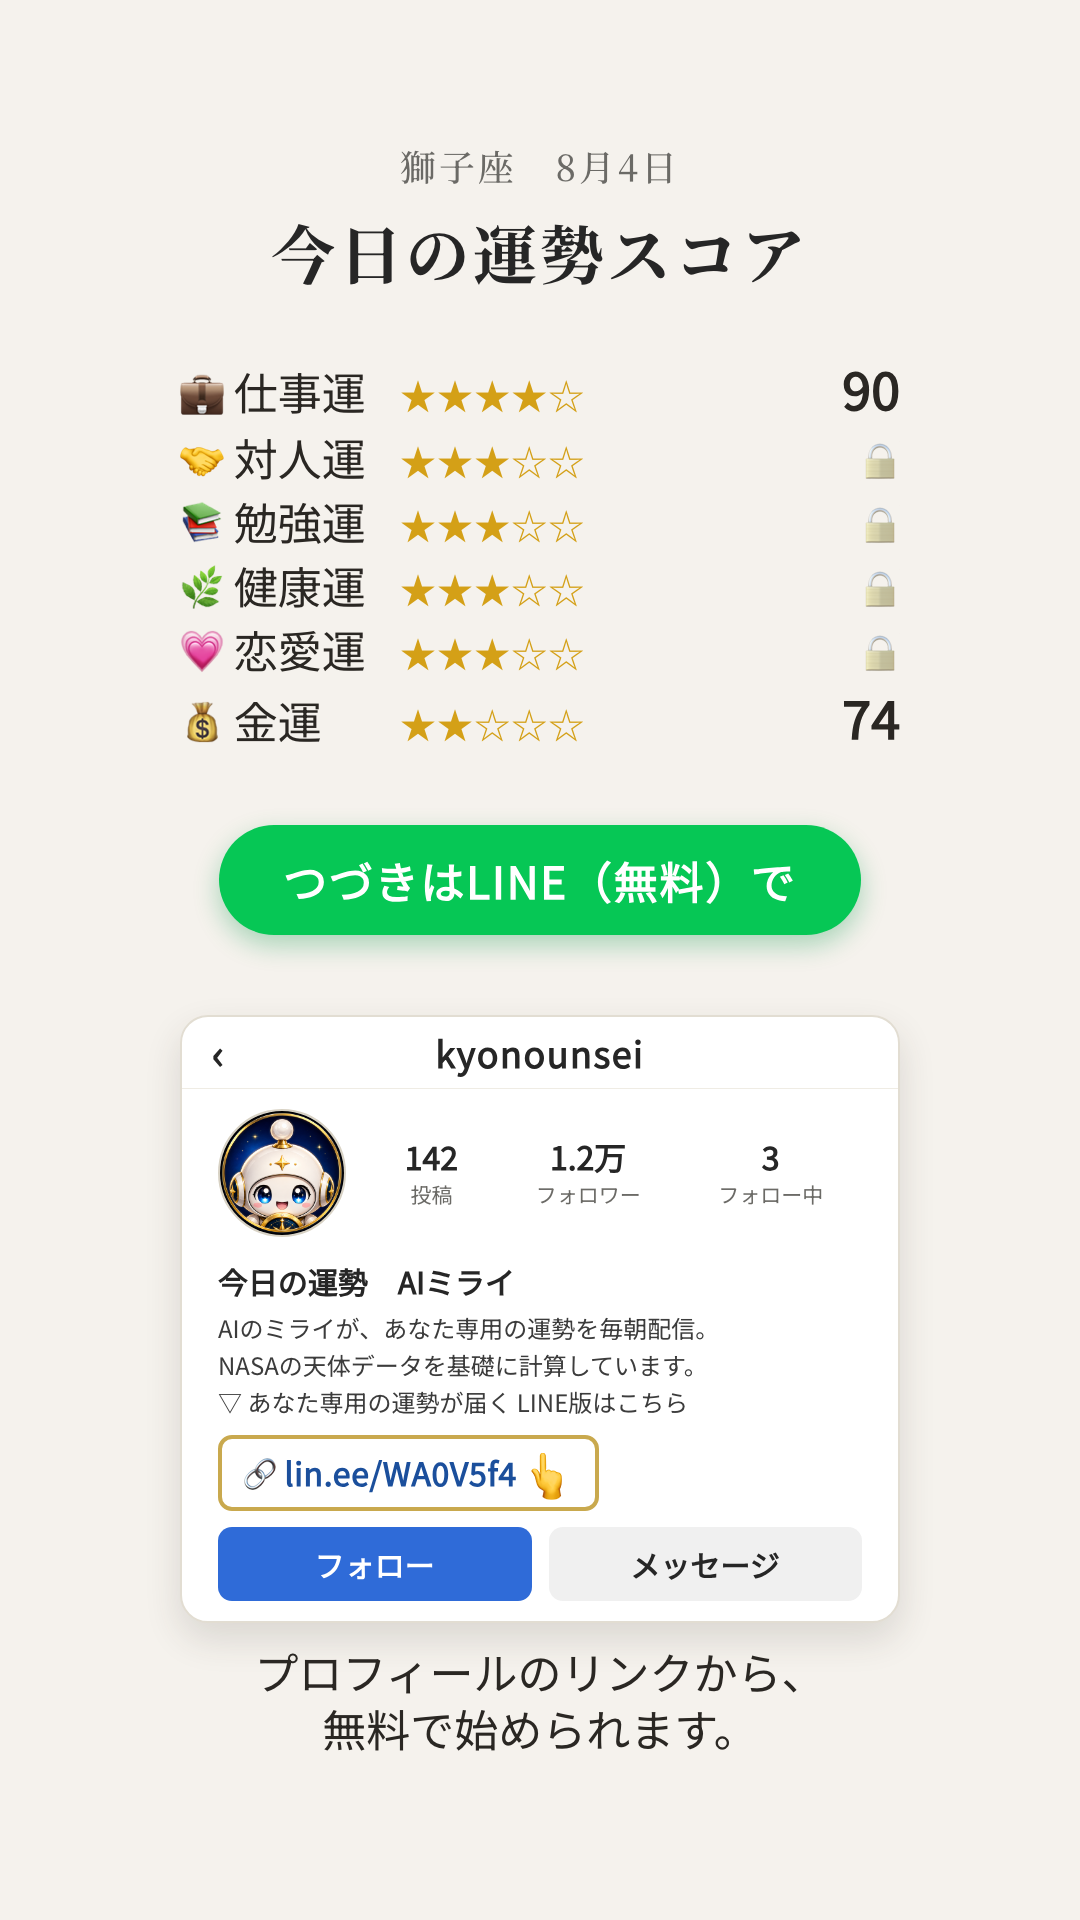
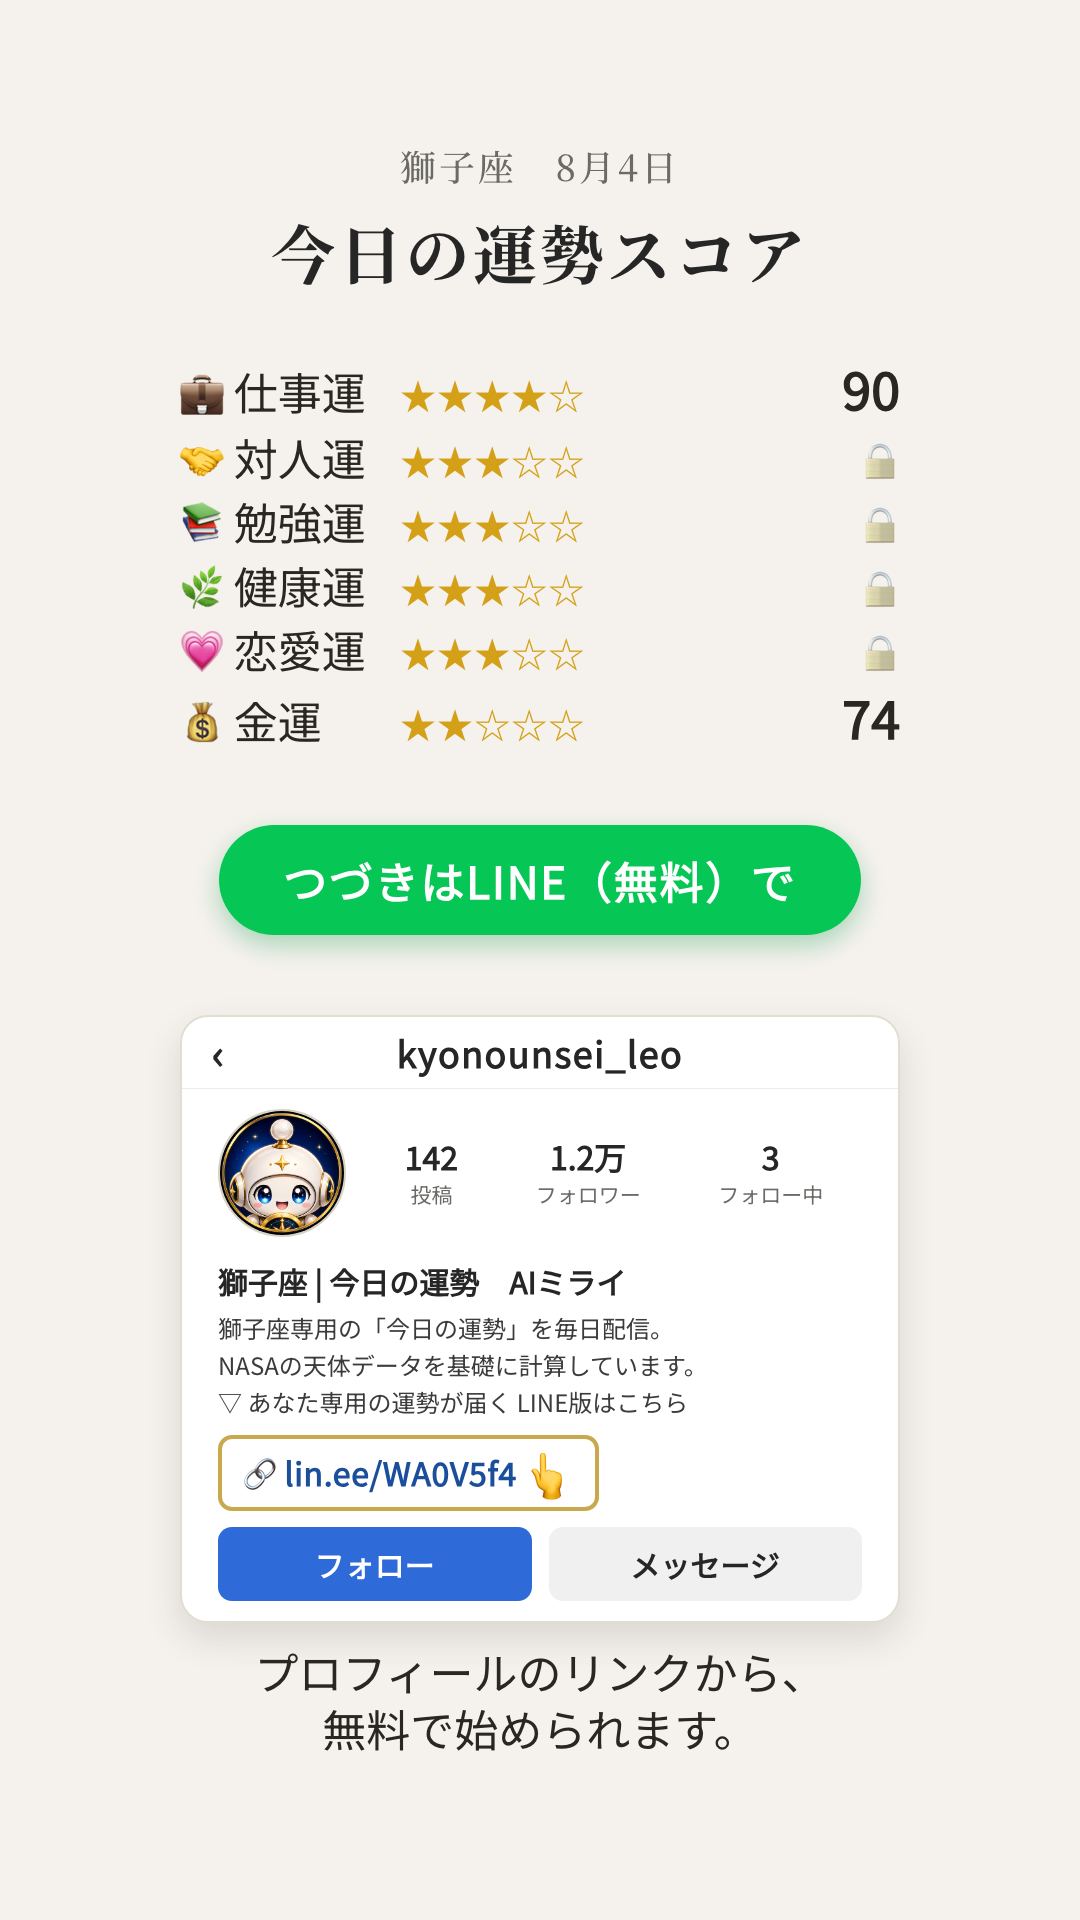
スライド4第23弾:モックを星座アカ別に(牡羊座・獅子座で確認)

Changed region(s): [[0.1833, 0.6562, 0.6417, 0.7188], [0.3667, 0.5312, 0.6417, 0.5625]]

diff --git a/slide4-test/index.html b/slide4-test/index.html
@@ -25,11 +25,11 @@
 <body>
 <div class="top-label">ストーリーズ Slide 4（今日の運勢スコア）確認 &middot; Internal Only</div>
 <div class="grid">
-  <div class="card"><img src="aries_slide4.png?v=1785750554" loading="lazy"><div class="label">牡羊座</div></div>
+  <div class="card"><img src="aries_slide4.png?v=1785751513" loading="lazy"><div class="label">牡羊座</div></div>
   <div class="card"><img src="taurus_slide4.png?v=1785750554" loading="lazy"><div class="label">牡牛座</div></div>
   <div class="card"><img src="gemini_slide4.png?v=1785750554" loading="lazy"><div class="label">双子座</div></div>
   <div class="card"><img src="cancer_slide4.png?v=1785750554" loading="lazy"><div class="label">蟹座</div></div>
-  <div class="card"><img src="leo_slide4.png?v=1785750554" loading="lazy"><div class="label">獅子座</div></div>
+  <div class="card"><img src="leo_slide4.png?v=1785751513" loading="lazy"><div class="label">獅子座</div></div>
   <div class="card"><img src="virgo_slide4.png?v=1785750554" loading="lazy"><div class="label">乙女座</div></div>
   <div class="card"><img src="libra_slide4.png?v=1785750554" loading="lazy"><div class="label">天秤座</div></div>
   <div class="card"><img src="scorpio_slide4.png?v=1785750554" loading="lazy"><div class="label">蠍座</div></div>
